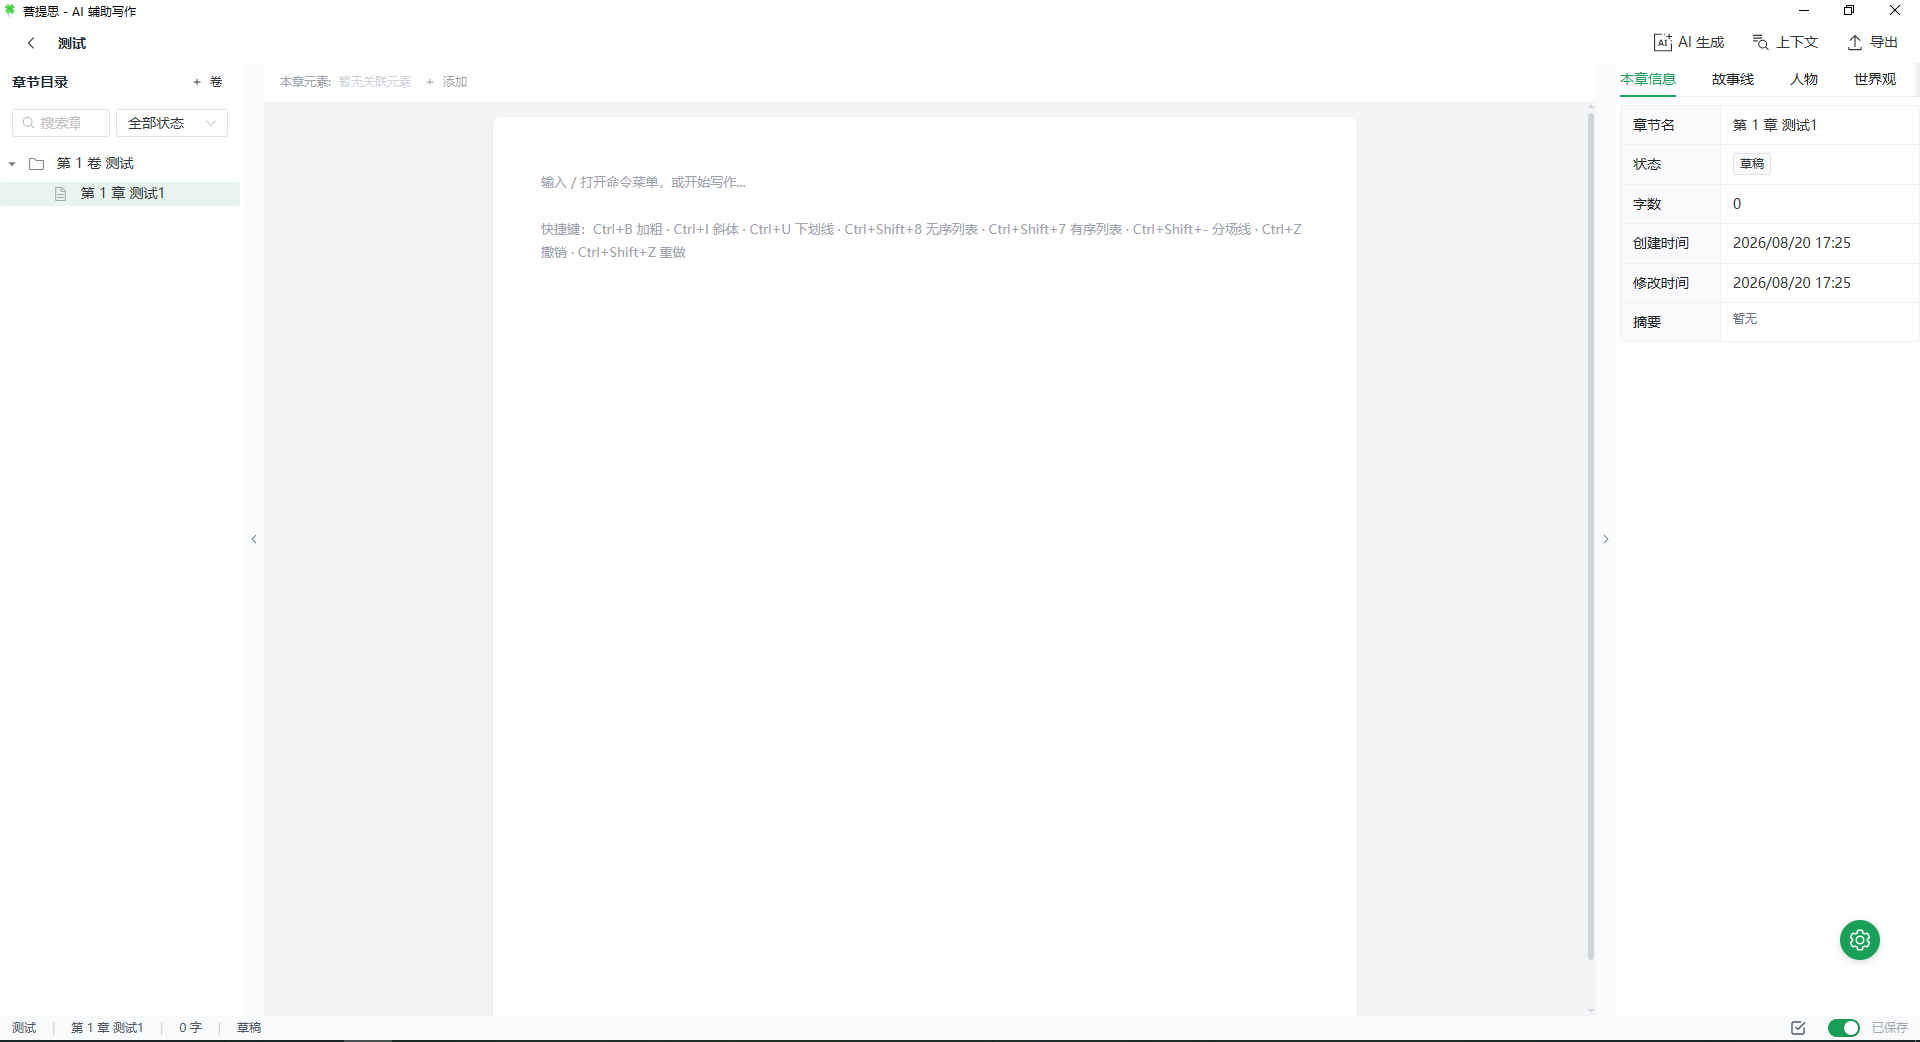
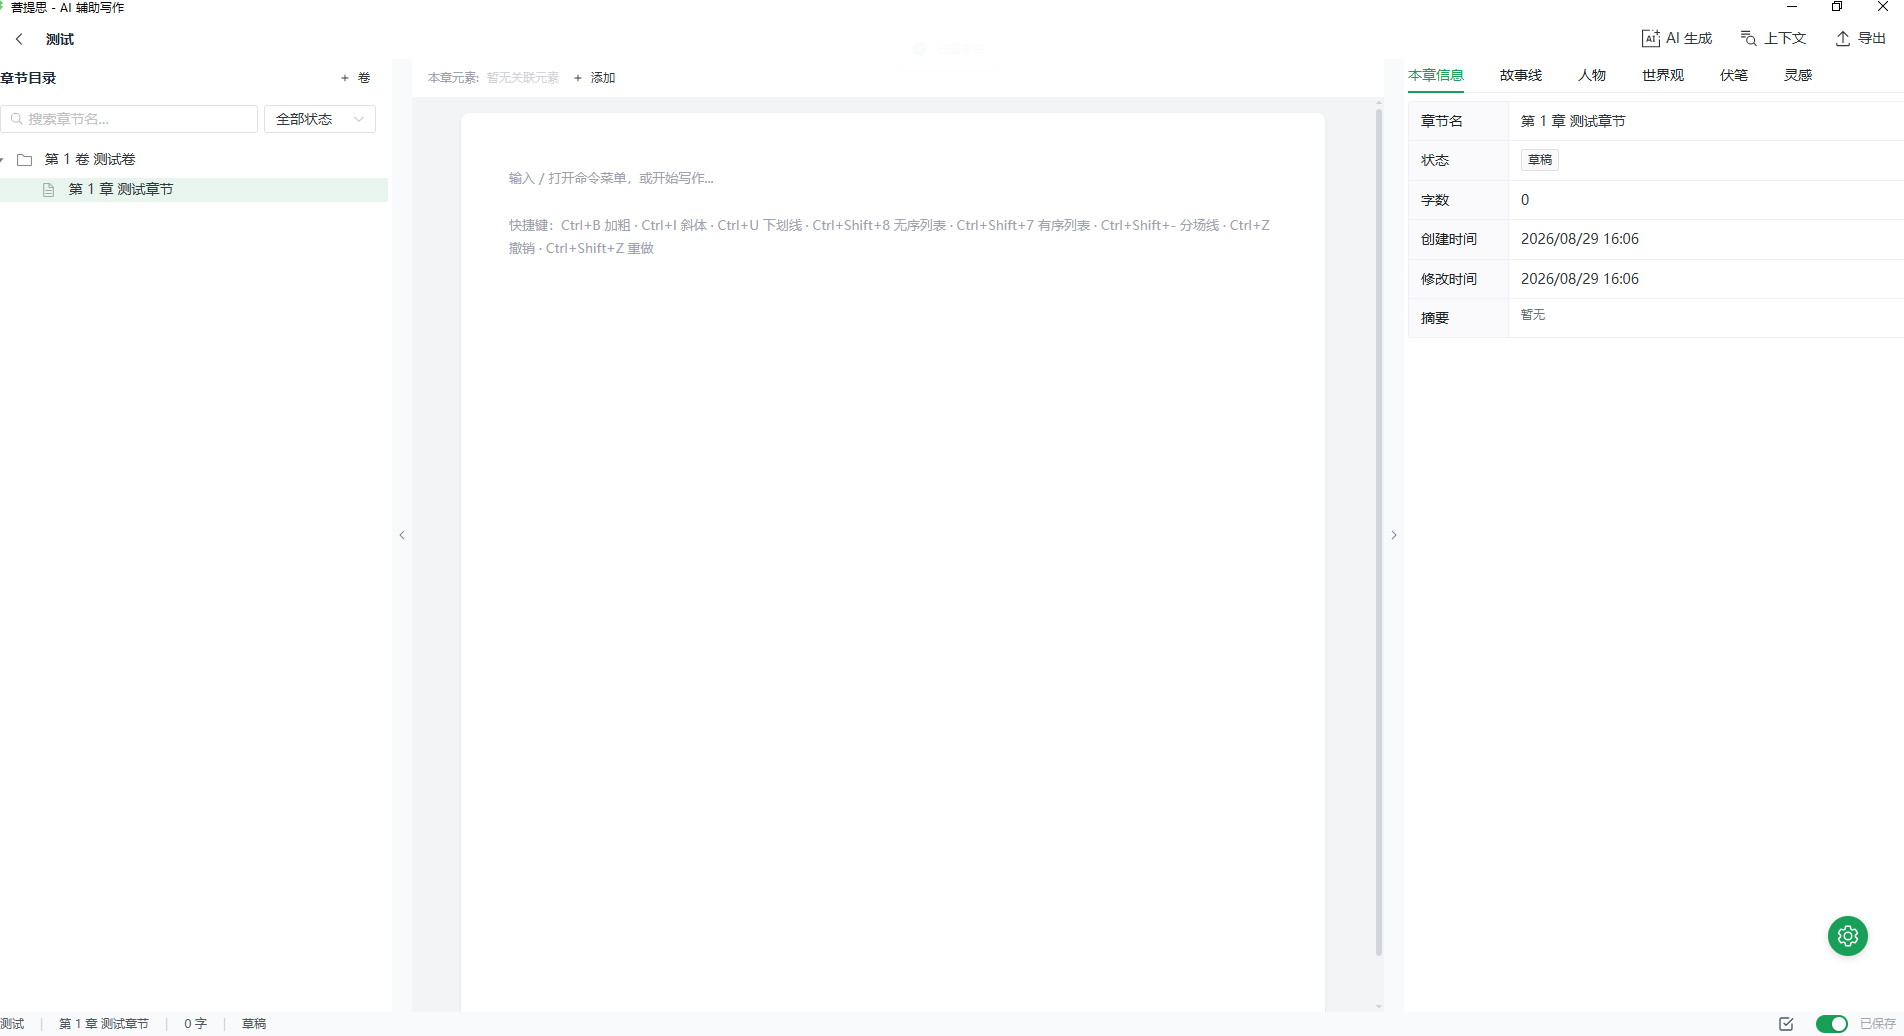
doc: 完善文档

diff --git a/README.md b/README.md
@@ -1,6 +1,13 @@
 # 菩提思
 
-AI 小说编辑器 — 基于 Rust + Tauri + Vue3 构建的桌面应用，内置 RAG 检索增强、本地嵌入模型与实体状态追踪，为长篇小说创作提供 AI 辅助。
+AI 小说编辑器 — 基于 Rust + Tauri + Vue3 构建的桌面应用。为长篇小说创作而生：RAG 检索增强、本地嵌入模型、章节摘要与实体快照、伏笔与灵感管理，让 AI 真正读懂你的故事。
+
+## 核心亮点
+
+- **AI 懂上下文**：自动注入上一章摘要、相关角色 / 故事线 / 世界观、待埋设与待回收的伏笔，生成内容不再"失忆"
+- **检索全离线**：本地嵌入模型 + sqlite-vec 向量检索，正文不上传任何第三方服务
+- **长篇不崩人设**：实体快照逐章追踪角色状态与故事线进展，时间线可视化演变
+- **纯本地运行**：数据全部存储在本地 SQLite，隐私安全可控
 
 ## 界面预览
 
@@ -19,24 +26,28 @@ AI 小说编辑器 — 基于 Rust + Tauri + Vue3 构建的桌面应用，内置
 - **三栏布局**：章节树 / 编辑器 / 信息面板，支持拖拽调整宽度
 - **TipTap v3 富文本**：标题、粗体、斜体、列表、引用、任务列表、链接、图片、高亮等
 - **斜杠菜单**：块级操作（删除、上移、下移、复制）
+- **场景分割**：章节内插入场景分隔符，支撑场景级结构化创作
 - **自动保存**：编辑后 2 秒自动保存，切换章节前自动 flush
 - **字数统计**：实时统计章节字数
 - **明暗主题**：跟随系统或手动切换，UnoCSS `class` 策略持久化
 
 ### 项目管理
 
-- **多项目工作区**：项目卡片列表视图
-- **卷章节结构**：卷 / 章节两级树，右键菜单管理
-- **导入导出**：支持 TXT / Markdown / JSON 三种格式
+- **多项目工作区**：项目卡片列表视图，题材分类、简介一目了然
+- **项目封面**：支持自定义封面图片，自动存储于应用数据目录，移除或更换时自动清理旧文件
+- **卷章节结构**：卷 / 章节两级树，右键菜单管理，支持排序
+- **导入导出**：支持 TXT / Markdown 两种格式导出
 
 ### AI 生成
 
-- **统一生成入口**：所有 AI 操作（续写 / 扩写 / 重写 / 润色 / 大纲）均通过 `AIGenerationDialog` 发起
+- **统一生成入口**：所有 AI 操作（续写 / 扩写 / 润色）均通过 `AIGenerationDialog` 发起
 - **真流式输出**：首 token 即时显示，避免长时间卡顿
 - **推理过程展示**：展示模型 thinking 过程，推理完成后自动收起，支持手动展开
 - **上下文感知**：
   - 自动注入上一章摘要（缺失时提示用户确认是否继续）
   - 自动排除当前章与上一章避免重复检索
+  - 自动注入本章待埋设伏笔与前文待回收伏笔，AI 协助伏笔的埋设与回收
+- **生成历史**：按章节记录 AI 生成历史，支持回看与清理
 
 ### RAG 检索增强
 
@@ -56,11 +67,15 @@ AI 小说编辑器 — 基于 Rust + Tauri + Vue3 构建的桌面应用，内置
   - 实体演变时间线，支持「仅看变化」合并连续无变化快照
 - **嵌入同步**：批量同步项目的摘要与切片嵌入
 
-### 元素管理
+### 创作元素
 
 - **角色**：名称、描述、角色标签（主角 / 配角等）
 - **故事线**：名称、描述、状态标签（进行中 / 已完成 / 已放弃，仅进行中的故事线可在编辑器中关联）
 - **世界观**：名称、描述、分类标签（地理 / 势力等）
+- **伏笔管理**：独立实体，双章节绑定（埋点章节 / 回收章节）
+  - 状态流转：待埋 → 已埋下 → 已回收，可随时废弃
+  - AI 生成时自动注入待埋设与待回收伏笔，辅助伏笔收束
+- **灵感收集**：随手记录灵感的流式列表（按创建时间倒序），状态标记：待处理 / 已采用 / 已搁置
 - **章节关联**：章节可关联多个元素，快照生成基于关联元素
 
 ### 任务中心
@@ -71,8 +86,9 @@ AI 小说编辑器 — 基于 Rust + Tauri + Vue3 构建的桌面应用，内置
 
 ### AI 配置
 
-- **多 Provider 支持**：OpenAI 兼容接口（DeepSeek 等）
+- **多 Provider 支持**：OpenAI 兼容接口，内置 DeepSeek 等预设，填 Key 即用
 - **API Key 加密**：本地 AES-GCM 加密存储
+- **叙事规则模板**：内置宽松 / 严格两套叙事规则提示词模板，可自定义编辑、一键恢复内置默认
 - **Provider 切换**：设置默认 Provider 与 API Key
 
 ## 技术栈
@@ -134,10 +150,10 @@ linden-novel/
 ├── src/                          # 前端源码
 │   ├── api/                      # Tauri IPC 调用封装
 │   ├── components/
-│   │   ├── ai/                   # AI 生成对话框（AIGenerationDialog）
-│   │   ├── common/               # 通用组件
-│   │   ├── editor/               # 编辑器组件（LindenEditor, BubbleToolbar）
-│   │   ├── elements/             # 元素面板（角色 / 故事线 / 世界观）
+│   │   ├── ai/                   # AI 生成对话框（AIGenerationDialog）、AI 设置
+│   │   ├── common/               # 通用组件（项目卡片、任务中心、设置菜单等）
+│   │   ├── editor/               # 编辑器组件（LindenEditor、BlockMenu、场景分割）
+│   │   ├── elements/             # 创作元素面板（角色 / 故事线 / 世界观 / 伏笔 / 灵感）
 │   │   ├── entity/               # 实体快照时间线
 │   │   └── layout/               # 布局组件（三栏、章节树、侧栏、状态栏）
 │   ├── composables/              # 组合式函数
@@ -149,20 +165,20 @@ linden-novel/
 │   │   └── ...
 │   ├── stores/                   # Pinia 状态管理
 │   ├── types/                    # TypeScript 类型定义
-│   ├── utils/                    # 工具函数（错误处理、时间格式化）
+│   ├── utils/                    # 工具函数（错误处理、时间格式化、封面路径）
 │   ├── views/                    # 页面视图（ProjectListView, EditorView）
 │   ├── App.vue
 │   └── main.ts
 ├── src-tauri/                    # 后端源码
 │   ├── capabilities/             # Tauri 权限配置
-│   ├── migrations/               # 数据库迁移脚本（0001–0008）
+│   ├── migrations/               # 数据库迁移脚本（0001–0010）
 │   ├── src/
 │   │   ├── ai/                   # AI 核心
 │   │   │   ├── provider.rs       # Provider trait
 │   │   │   ├── openai_provider.rs# OpenAI 兼容实现（流式 + 推理）
 │   │   │   ├── local_provider.rs # 本地嵌入 Provider
 │   │   │   ├── rag.rs            # RAG 检索（并行）
-│   │   │   ├── context_collector.rs # 上下文组装
+│   │   │   ├── context_collector.rs # 上下文组装（含伏笔注入）
 │   │   │   ├── chunker.rs        # 正文切块
 │   │   │   ├── model_downloader.rs # 嵌入模型下载
 │   │   │   └── sse.rs            # SSE 流式解析
@@ -208,7 +224,6 @@ linden-novel/
 |---|---|---|
 | `LINDEN_EMBED_DIM` | `512` | 嵌入向量维度（需与模型一致） |
 | `LINDEN_EMBEDDER_DIR` | `app_data_dir/embedder_model` | 嵌入模型存储目录 |
-
 
 ### 性能调优
 
